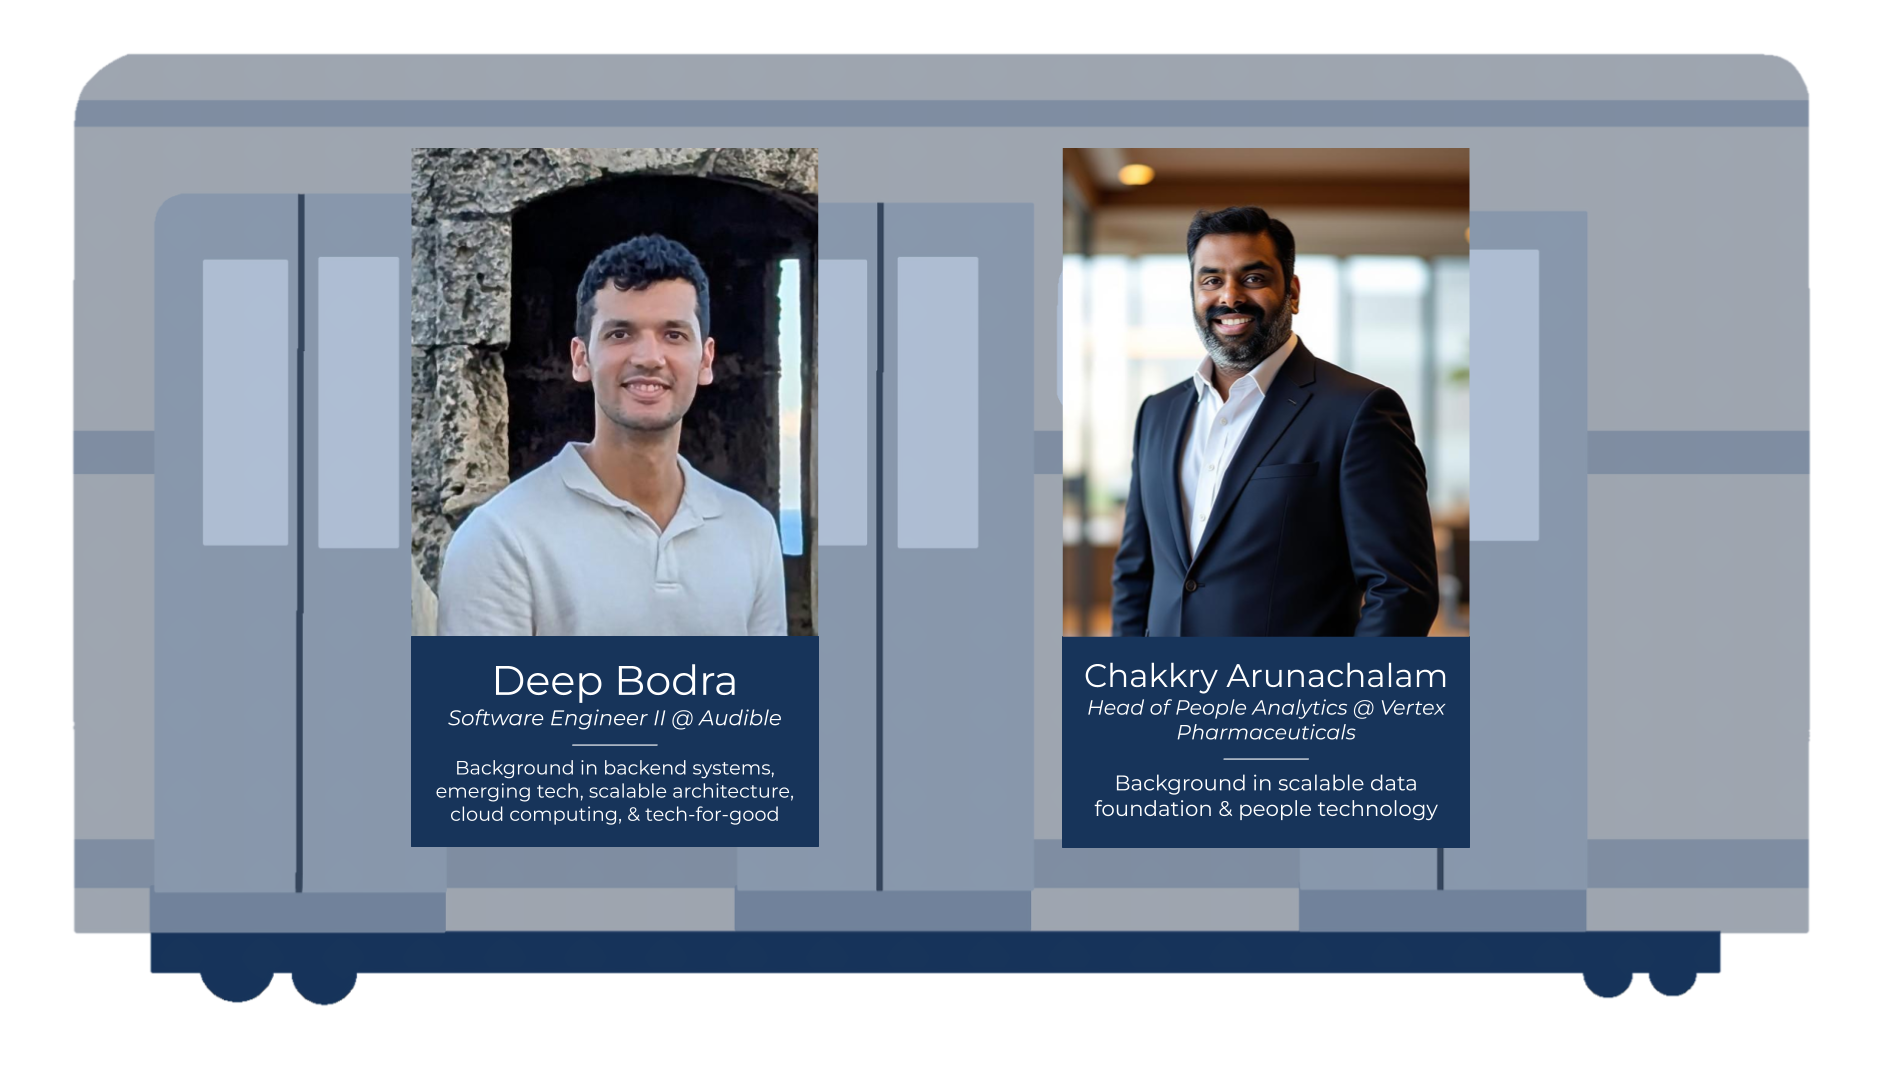
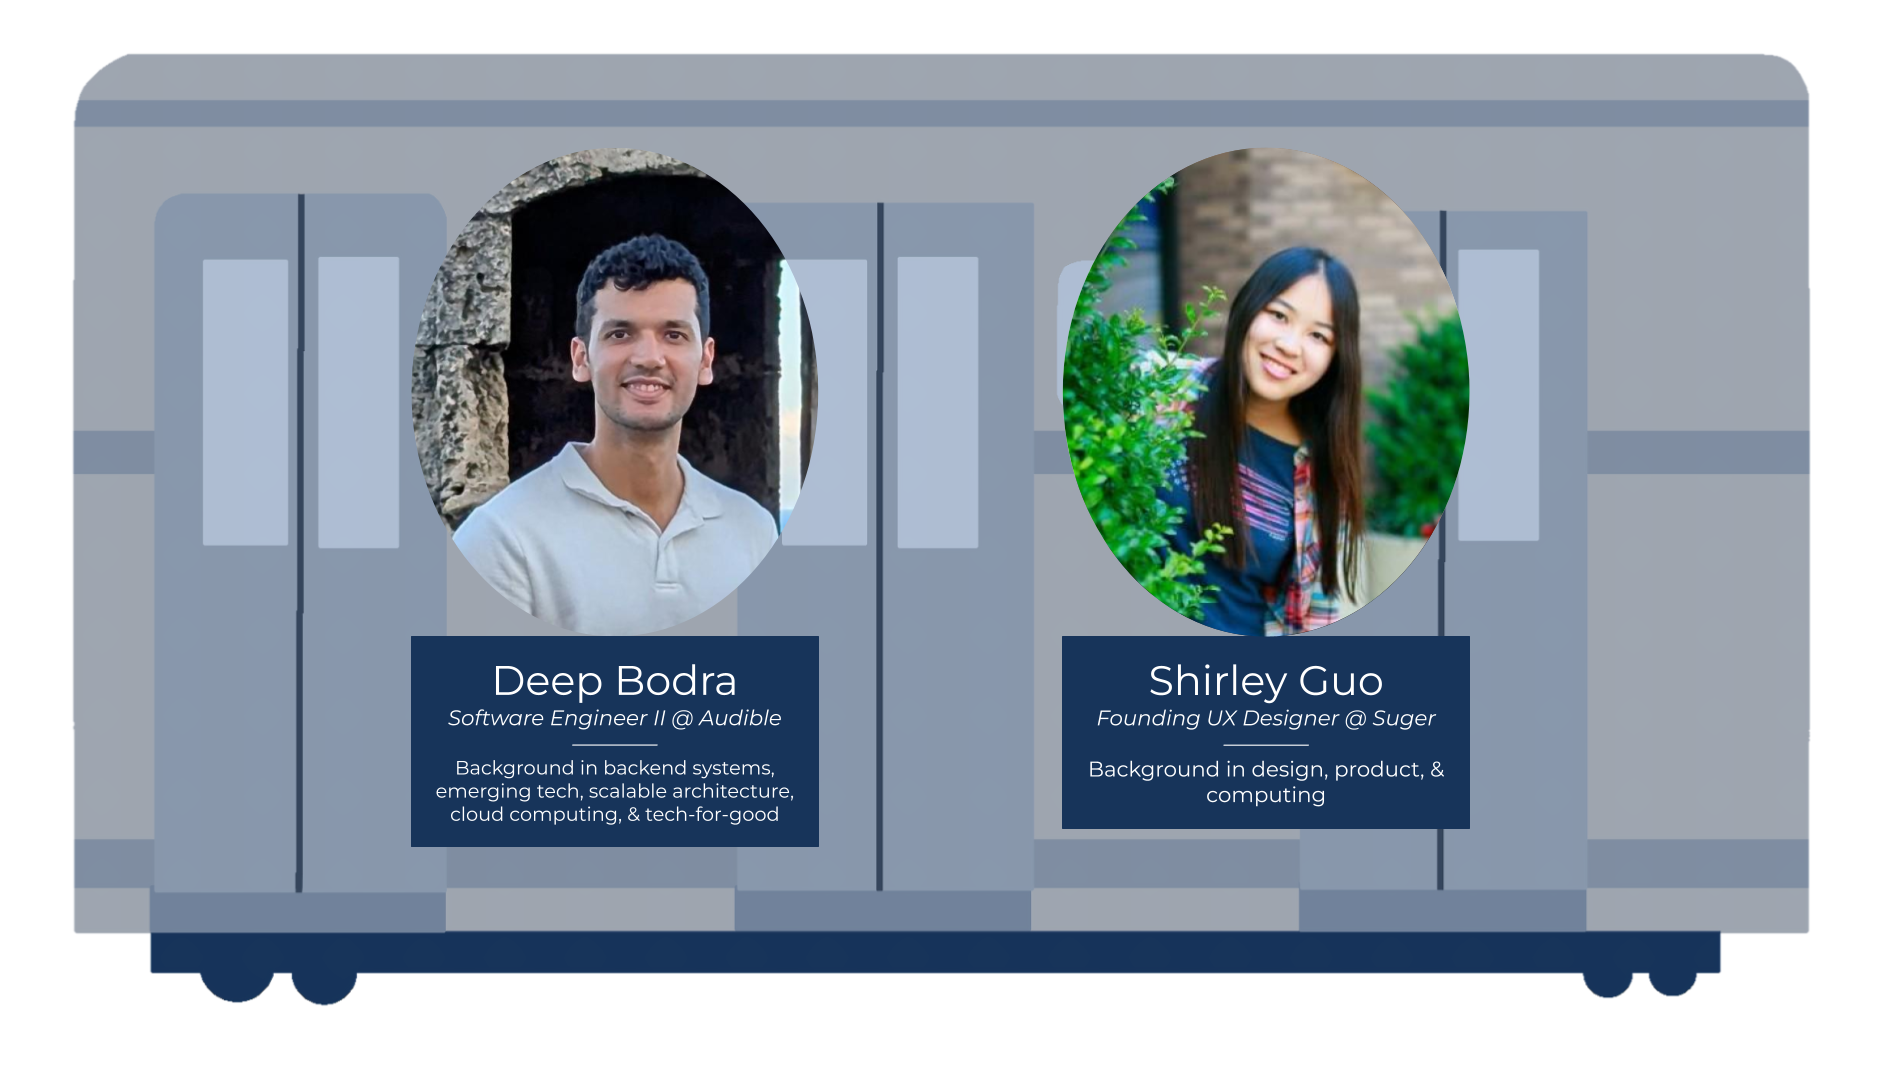
updated judges

diff --git a/2025divhacks/src/pages/Home.js b/2025divhacks/src/pages/Home.js
@@ -14,6 +14,7 @@ import train2 from '../assets/train2.png';
 import train3 from '../assets/train3.png';
 import train4 from '../assets/train4.png';
 import train5 from '../assets/train5.png';
+import train6 from '../assets/train6.png';
 import trainComingSoon from '../assets/trainComingSoon.png';
 import track1img from '../assets/track1.png';
 import track2img from '../assets/track2.png';
@@ -54,7 +55,7 @@ export default function Home() {
   ];
   const aboutSectionRef = useRef(null);
   const [aboutCardVisible, setAboutCardVisible] = useState(false);
-  const judgesTrains = [train1, train2, train3, train4, train5];
+  const judgesTrains = [train1, train2, train3, train4, train5, train6];
   const speakersTrains = [trainComingSoon]; // Only the coming soon train for speakers
   const [currentTrainSet, setCurrentTrainSet] = useState('judges'); // 'judges' or 'speakers'
   const [currentTrain, setCurrentTrain] = useState(0);
